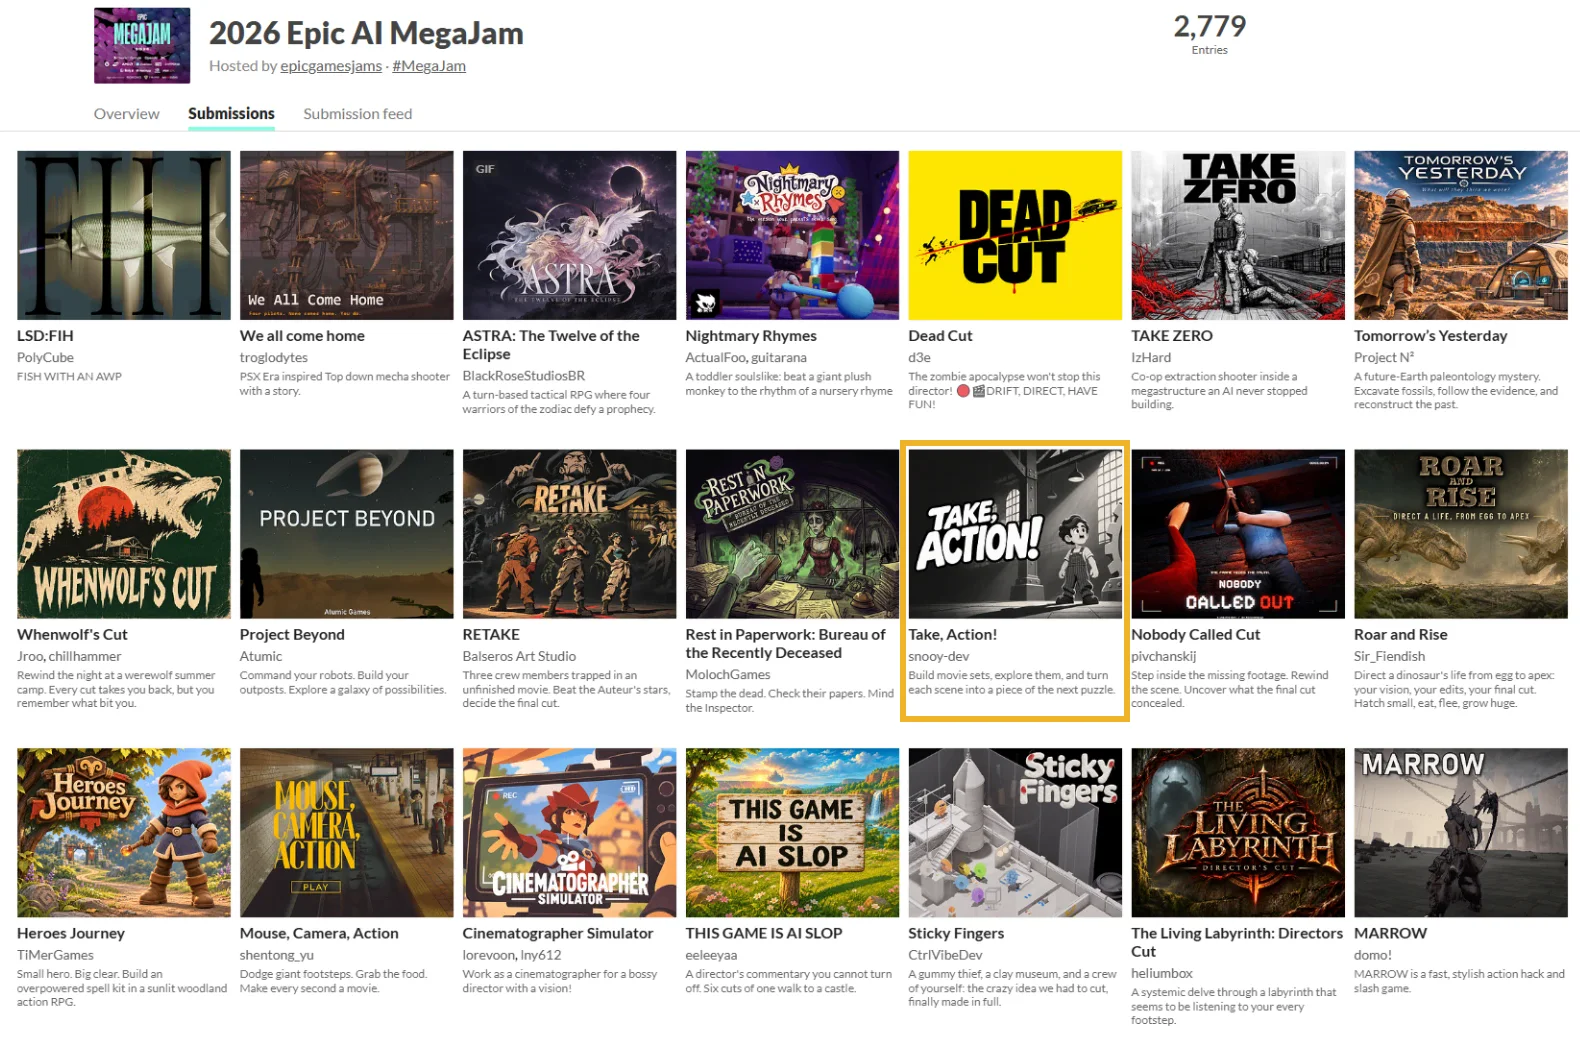
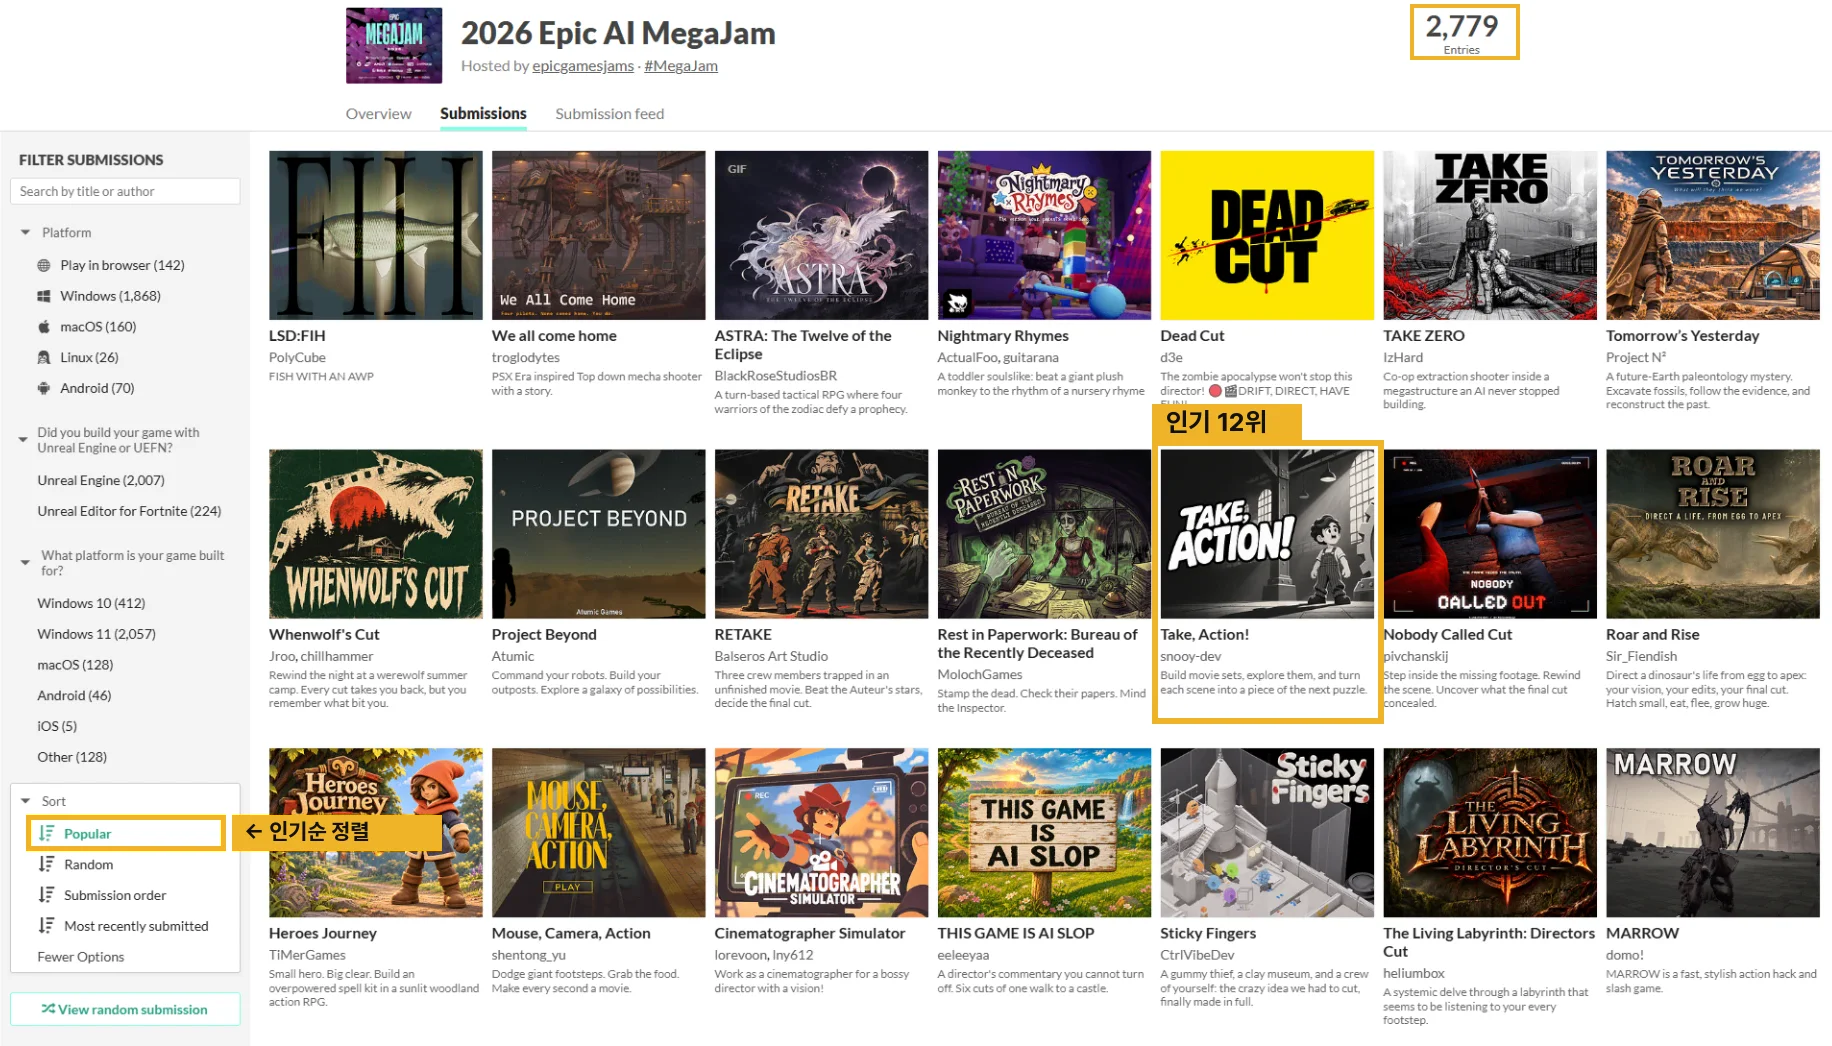
Take, Action!: merge design docs into one tab, show Popular sort in rank screenshot

diff --git a/index.html b/index.html
@@ -1742,14 +1742,10 @@ const PROJECTS = [
     media: [
       { label: '게임플레이 트레일러', type: 'youtube', youtube: 'ST-9zLMTInE' },
       { label: '게임 받기', type: 'itch', url: 'https://snooy-dev.itch.io/take-action', len: 'itch.io', caption: '게임잼 제출 빌드입니다. itch.io에서 Windows용 빌드(약 1GB)를 받아 바로 실행할 수 있습니다.' },
-      { label: '레벨 설계 · SCENE 1~3 (최종)', type: 'game', src: 'media/takeaction/scene_answers.html', poster: 'media/takeaction/poster_answers.webp', len: 'HTML 도면',
-        gTag: 'DOCUMENT', gBtn: '최종 설계 도면 열기', gTitle: '씬 정답 배치 · SCENE 1~3 최종 레벨 설계', gKeys: '층마다 위에서 내려다본 배치 · 정답별 경로',
-        gSub: '게임잼 마지막 날 정리한 최종 레벨 설계 문서입니다', gSubTouch: '넓은 화면에서 보기 좋습니다',
-        caption: 'SCENE 1~3 레벨 설계의 최종판입니다. 층마다 위에서 내려다본 정답 배치 그리드와, 그 배치에서 이어지는 경로를 정리했습니다. SCENE 1은 정답 하나, SCENE 2 · 3은 정답 A · B · C 세 가지이며, 이전 SCENE을 통째로 만든 세트(2×2×2 · 3×3×3)를 어디에 어떻게 돌려 놓는지가 정답마다 다릅니다. 각 정답의 “블럭별 위치와 회전”을 펼치면 블럭마다 기준 칸과 회전값이 나옵니다.' },
-      { label: '블럭 상세 도면 · SCENE 1 (v5)', type: 'game', src: 'media/takeaction/leveldesign_v5.html', poster: 'media/takeaction/poster_design.webp', len: 'HTML 도면',
-        gTag: 'DOCUMENT', gBtn: '설계 도면 열기', gTitle: '블럭 레벨 설계도 v5 · SCENE 1 블럭 상세 · 경로 증명', gKeys: '왼쪽 목록에서 범례 · 한 길 증명 · 블럭을 골라 보세요',
-        gSub: '게임잼 중 실제로 쓴 레벨 설계 도면 원본입니다', gSubTouch: '넓은 화면에서 보기 좋습니다',
-        caption: 'SCENE 1을 “경로 먼저”로 다시 짤 때 만든 블럭 상세 도면(v5)입니다. 범례 · 치수 기준 · 설계 규칙과 함께, SCENE 1을 “정답 경로 하나가 반드시 이어지는가”로 증명하는 한 길 증명, 블럭마다 칸별 평면도 · 3D 단면 · 장치 일람표를 담았습니다. 게임잼 중 이 도면을 보며 블럭을 만들고 고쳤습니다.' },
+      { label: '레벨 설계 도면', type: 'game', src: 'media/takeaction/leveldesign.html', poster: 'media/takeaction/poster_answers.webp', len: 'HTML',
+        gTag: 'DOCUMENT', gBtn: '레벨 설계 도면 열기', gTitle: 'Take, Action! · 레벨 설계 도면', gKeys: '위쪽 탭: SCENE 1~3 정답 배치(최종) · SCENE 1 블럭 상세(v5)',
+        gSub: '게임잼 중 실제로 쓴 레벨 설계 문서 원본입니다', gSubTouch: '넓은 화면에서 보기 좋습니다',
+        caption: '레벨 설계 문서 두 개를 한 탭에 묶었습니다. ‘SCENE 1~3 정답 배치 · 최종’은 게임잼 마지막 날 정리한 최종판으로, 층마다 위에서 내려다본 정답 배치와 정답마다 이어지는 경로를 담았습니다(SCENE 1은 정답 하나, SCENE 2 · 3은 A · B · C 세 가지). ‘SCENE 1 블럭 상세 · v5’는 SCENE 1을 “경로 먼저”로 다시 짤 때 만든 도면으로, 블럭마다 칸별 평면도 · 단면 · 장치 일람표와 한 길 증명이 들어 있습니다.' },
       { label: '인게임 스크린샷', type: 'slides', dir: 'takeaction/shots', count: 8, len: '8장', fullThumbs: true }
     ],
     facts: [['JAM', '2026 Epic AI Mega Jam · 11.12 – 11.16 (4일)'], ['RANK', '인기순 12위 · 출품작 2,779개 중 (11.22 기준)'], ['TEAM', '4인 (나 · 팀원 A · B · C)'], ['MY ROLE', 'SCENE 1~3 레벨 디자인 · 기획서 · 장치 규칙 문서 · 사운드'], ['ENGINE', 'Unreal Engine 5.9 Preview · Lyra 기반'], ['AI', 'Claude Code + 언리얼 Python 스크립트 · PCG'], ['VCS', 'Diversion · 내 커밋 36개 (브랜치 5곳)']],
@@ -1759,7 +1755,7 @@ const PROJECTS = [
         p: '찰리의 방에서 스케줄 보드로 SCENE을 고르면 촬영이 시작됩니다. Tab으로 <b>CUT!</b>을 외치면 감독 모드로 바뀌어 블럭을 놓고 24방향으로 돌릴 수 있고, 다시 <b>ACTION!</b>을 외치면 바뀐 배치대로 세트가 재조립된 뒤 연기 모드로 돌아옵니다. 톱니를 모두 모으고, 그리드를 다 채우고, 도착 지점에 닿으면 클리어입니다. 사망하거나 CUT!을 할 때마다 TAKE(필름 예산)가 하나씩 쓰이고, SCENE 3을 깨면 플레이어가 만든 세트를 되감아 보여 주는 “감독판” 엔딩이 나옵니다.' },
       { h: '결과 · 게임잼 인기순 12위', kind: 'result',
         stats: [['12위', '인기순 · itch.io 출품작 목록'], ['2,779', '전체 출품작'], ['4일', '제작 기간 · 4인 팀']],
-        rows: [[{ src: 'media/takeaction/jam_rank.webp', w: 1580, h: 1047, cap: '2026 Epic AI MegaJam 출품작 목록 · 인기순 정렬 (2026.11.22 기준) — 노란 테두리가 Take, Action!' }]] },
+        rows: [[{ src: 'media/takeaction/jam_rank.webp', w: 1832, h: 1047, cap: 'itch.io 2026 Epic AI MegaJam 출품작 목록 (2026.11.22) — 왼쪽 Sort가 Popular(인기순)로 정렬된 상태에서 Take, Action!이 12번째 (출품작 2,779개)' }]] },
       { h: '팀과 내 역할 · 4인 팀', kind: 'role', cols: 3,
         p: '제 포트폴리오라서 아래는 제가 맡은 부분을 중심으로 정리했습니다. 역할은 Diversion 커밋 기록으로 확인한 내용입니다.',
         items: [
@@ -1795,7 +1791,7 @@ const PROJECTS = [
           { t: 'SCENE 3 · 4×4×4', pick: true, tag: '정답 3개', l: ['O4 보일러 홀(회전 들보 · 증기 기둥) · T4 제어실(센서 문 · 기둥 다리)', 'I4 긴 조립 라인(타이머 문 · 프레스) · L4 긴 공작 통로(회전 들보 · 버튼 문)', 'B4 승강 탑(피스톤 계단 · 송풍기) · S4 배관 지그재그'] }
         ] },
       { h: '정답 경로 · 한 길로 이어지게', kind: 'table', wrap: true,
-        note: '블럭 배치가 정답이어도 그 안을 실제로 달려 나갈 수 있어야 정답입니다. SCENE마다 경로를 먼저 정하고, 경로가 지나가는 순서대로 장치를 배치했습니다. 아래는 정답 문서에 적은 경로이고, 위 ‘레벨 설계 · SCENE 1~3 (최종)’ 탭에서 층별 배치와 함께 볼 수 있습니다.',
+        note: '블럭 배치가 정답이어도 그 안을 실제로 달려 나갈 수 있어야 정답입니다. SCENE마다 경로를 먼저 정하고, 경로가 지나가는 순서대로 장치를 배치했습니다. 아래는 정답 문서에 적은 경로이고, 위 ‘레벨 설계 도면’ 탭에서 층별 배치와 함께 볼 수 있습니다.',
         cols: ['정답', '경로'],
         rows: [
           ['SCENE 1', 'M1-A 소품 탑(레버로 벽 발판 → 상자를 밀어 누름판 → 둘째 발판) → D2-A 왕복 발판 → 밸브 레버로 증기 → 2층 → M1-B 레버로 다리 → 버튼 → 빛 디딤돌 → D2-B 진자 → 레버로 대포 장전 → 도착 단상'],
@@ -1821,7 +1817,7 @@ const PROJECTS = [
         ['v7', 'SCENE 2(3×3×3) 정답 3개'],
         ['v8', 'SCENE 3(4×4×4) 정답 3개, SCENE 2 · 3 정답 문서 정리']
       ] },
-      { h: '치수 기준 · 설계 도면에서', kind: 'table', wrap: true, note: '레벨 설계 도면(v5)에 정리한 기준입니다. 모든 높이와 거리는 이 값 안에서 정했습니다. 위 ‘블럭 상세 도면 · SCENE 1 (v5)’ 탭에서 원본을 볼 수 있습니다.',
+      { h: '치수 기준 · 설계 도면에서', kind: 'table', wrap: true, note: '레벨 설계 도면(v5)에 정리한 기준입니다. 모든 높이와 거리는 이 값 안에서 정했습니다. 위 ‘레벨 설계 도면’ 탭에서 원본을 볼 수 있습니다.',
         cols: ['항목', '값', '설계에 쓰는 법'],
         rows: [
           ['칸', '1148 × 1148 × 1148', '바닥은 칸 아랫면, 천장은 위 칸 바닥 · 287 격자(4×4)'],

diff --git a/media/takeaction/leveldesign.html b/media/takeaction/leveldesign.html
@@ -1,0 +1,39 @@
+<!doctype html>
+<html lang="ko">
+<head>
+<meta charset="utf-8">
+<meta name="viewport" content="width=device-width, initial-scale=1">
+<title>Take, Action! · 레벨 설계 도면</title>
+<style>
+  :root { --bg:#14161b; --panel:#1d2027; --line:#2c313b; --fg:#e8eaf0; --muted:#9aa3b2; --accent:#f0b429; }
+  * { box-sizing:border-box; }
+  html, body { margin:0; height:100%; background:var(--bg); color:var(--fg); font-family:"Pretendard","Apple SD Gothic Neo","Malgun Gothic",system-ui,sans-serif; }
+  body { display:flex; flex-direction:column; }
+  nav { display:flex; gap:6px; align-items:center; flex-wrap:wrap; padding:10px 14px; background:var(--panel); border-bottom:1px solid var(--line); }
+  nav b { font-size:14px; margin-right:8px; }
+  nav button { font:inherit; font-size:13px; padding:7px 12px; border-radius:8px; border:1px solid var(--line); background:transparent; color:var(--muted); cursor:pointer; }
+  nav button[aria-selected="true"] { background:var(--fg); color:#111; border-color:var(--fg); font-weight:600; }
+  nav button:focus-visible { outline:2px solid var(--accent); outline-offset:2px; }
+  nav small { margin-left:auto; color:var(--muted); font-size:12px; }
+  iframe { flex:1; width:100%; border:0; background:var(--bg); }
+  @media (max-width:640px) { nav small { display:none; } }
+</style>
+</head>
+<body>
+<nav role="tablist" aria-label="레벨 설계 도면">
+  <b>레벨 설계 도면</b>
+  <button role="tab" aria-selected="true" data-src="scene_answers.html">SCENE 1~3 정답 배치 · 최종</button>
+  <button role="tab" aria-selected="false" data-src="leveldesign_v5.html">SCENE 1 블럭 상세 · v5</button>
+  <small id="note">층별 정답 배치와 정답마다의 경로</small>
+</nav>
+<iframe id="doc" title="레벨 설계 도면" src="scene_answers.html"></iframe>
+<script>
+  const notes = { 'scene_answers.html': '층별 정답 배치와 정답마다의 경로', 'leveldesign_v5.html': '칸별 평면도 · 단면 · 장치 일람표 · 한 길 증명' };
+  const tabs = document.querySelectorAll('nav button'), doc = document.getElementById('doc'), note = document.getElementById('note');
+  tabs.forEach(b => b.addEventListener('click', () => {
+    tabs.forEach(t => t.setAttribute('aria-selected', String(t === b)));
+    doc.src = b.dataset.src; note.textContent = notes[b.dataset.src] || '';
+  }));
+</script>
+</body>
+</html>
